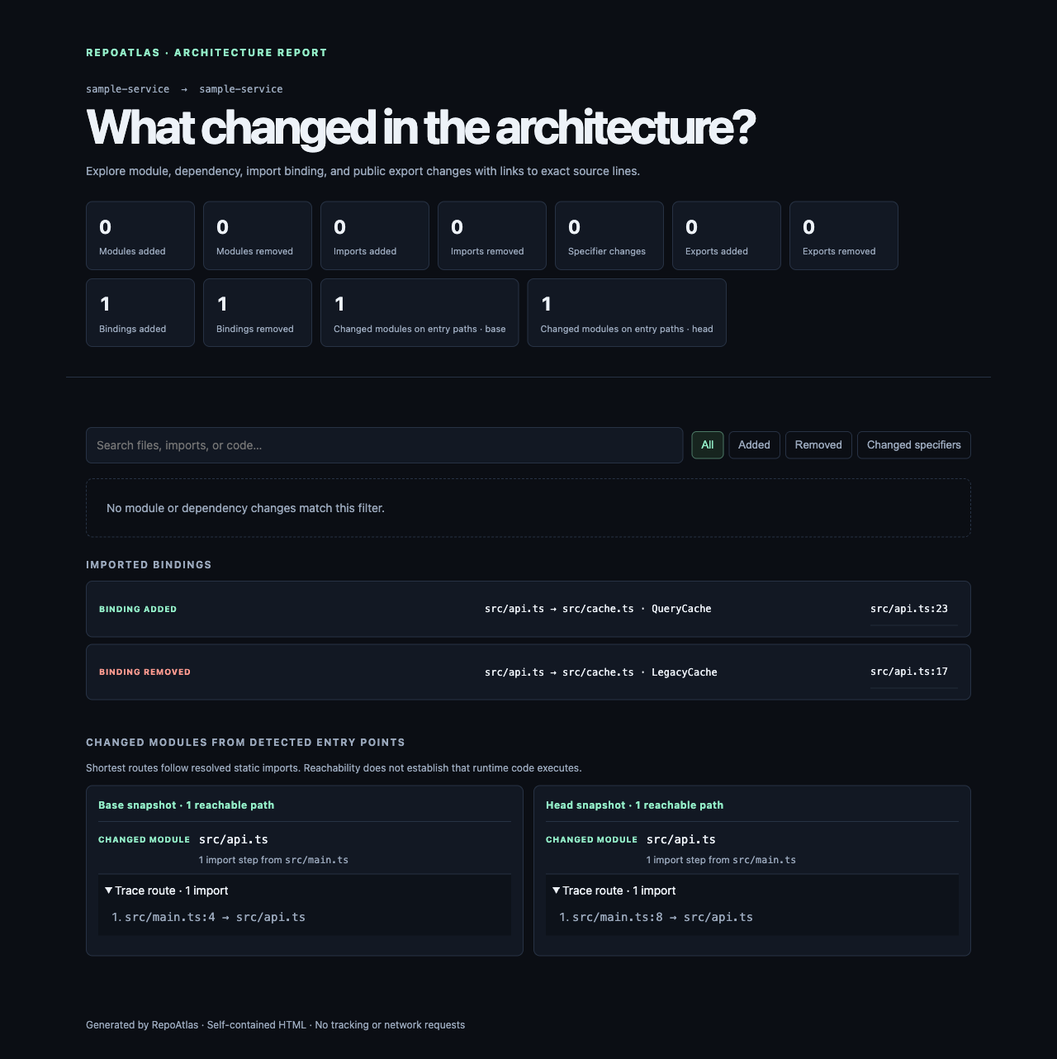
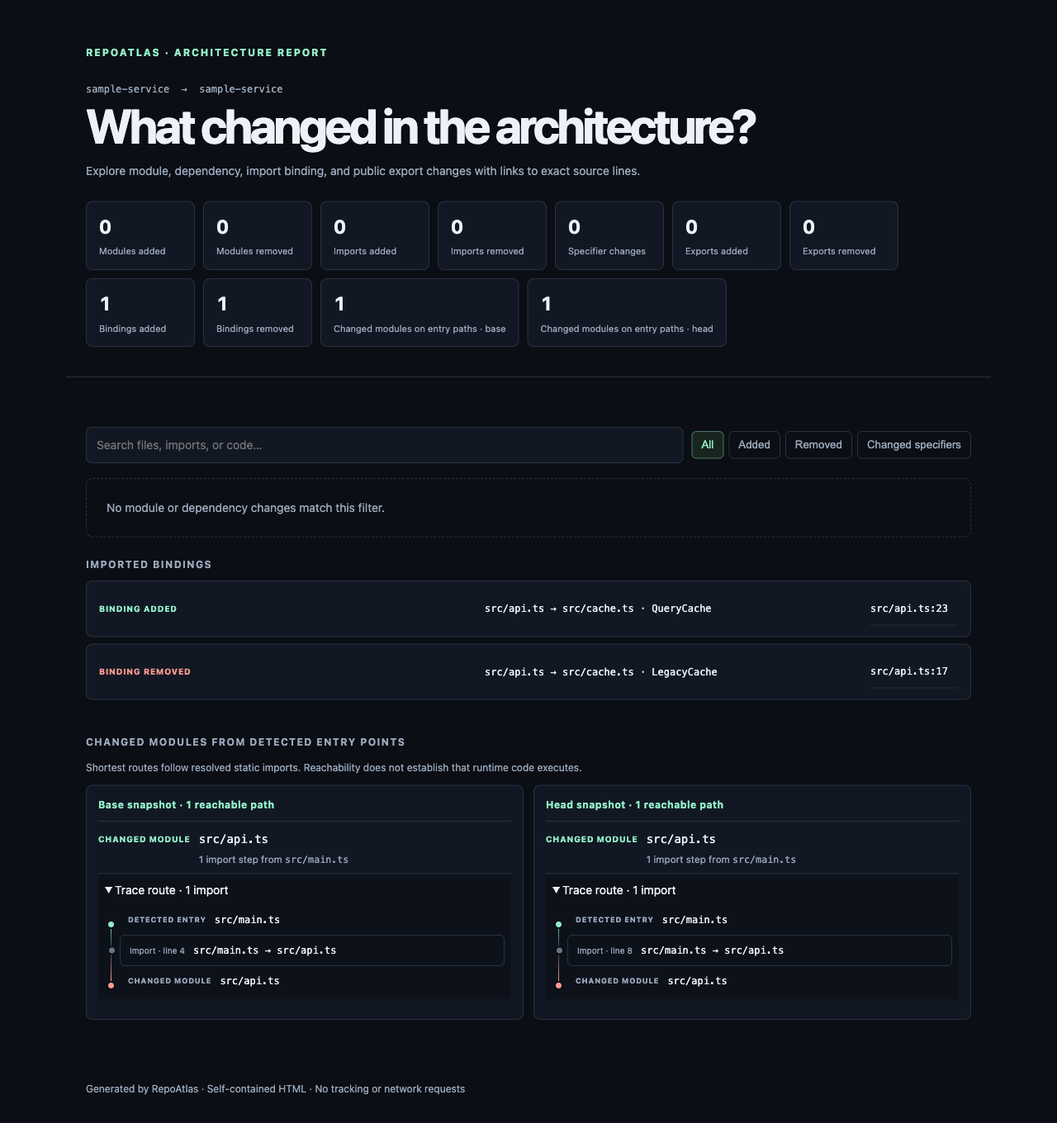
feat: render source-linked entry route rails (#117)

diff --git a/docs/examples/entry-impact-diff.html b/docs/examples/entry-impact-diff.html
@@ -1,7 +1,7 @@
 <!doctype html><html lang="en"><head><meta charset="utf-8"><meta name="viewport" content="width=device-width,initial-scale=1"><meta name="color-scheme" content="dark"><title>Architecture diff · sample-service</title><style>
 @media(prefers-reduced-motion:no-preference){.change{transition:transform .16s ease,border-color .16s ease,background .16s ease}.change:hover{transform:translateY(-1px);border-color:#42516a}}@media(prefers-reduced-motion:reduce){*,*::before,*::after{animation:none!important;scroll-behavior:auto!important;transition:none!important}}
-:root{color-scheme:dark;--bg:#0b0e14;--panel:#121823;--line:#273244;--text:#edf2f8;--muted:#9ba9bd;--mint:#92edc7;--red:#ff9b90;--amber:#e8c17b}*{box-sizing:border-box}body{margin:0;background:var(--bg);color:var(--text);font:14px/1.55 ui-sans-serif,system-ui,sans-serif}header,main{max-width:1120px;margin:auto;padding:32px 24px}header{padding-top:54px;border-bottom:1px solid var(--line)}.brand{color:var(--mint);font-size:12px;font-weight:750;letter-spacing:.16em;text-transform:uppercase}.eyebrow{margin:28px 0 8px;color:var(--muted);font:12px ui-monospace,monospace}h1{max-width:820px;margin:0;font-size:clamp(32px,6vw,58px);line-height:1.02;letter-spacing:-.055em}header p{color:var(--muted)}.stats{display:flex;gap:10px;flex-wrap:wrap;margin:26px 0 4px}.stat{padding:12px 15px;border:1px solid var(--line);border-radius:8px;background:var(--panel);min-width:132px}.stat strong{display:block;font-size:23px;font-variant-numeric:tabular-nums}.stat span{color:var(--muted);font-size:11px}.toolbar{display:flex;gap:10px;flex-wrap:wrap;align-items:center;margin:28px 0 18px}.toolbar input,.toolbar select{padding:10px 12px;border:1px solid var(--line);border-radius:7px;background:var(--panel);color:var(--text);font:inherit}.toolbar input{flex:1;min-width:220px}.filters{display:flex;gap:6px;flex-wrap:wrap}.filters button{padding:8px 11px;border:1px solid var(--line);border-radius:6px;background:transparent;color:var(--muted);cursor:pointer}.filters button[aria-pressed=true]{border-color:#4c7966;background:#17251f;color:var(--mint)}.section{margin:24px 0 42px}.section h2{font-size:12px;color:var(--muted);letter-spacing:.12em;text-transform:uppercase}.change-list{display:grid;gap:8px}.change{display:grid;grid-template-columns:minmax(180px,1fr) minmax(150px,1fr) auto;gap:14px;align-items:center;padding:13px 15px;border:1px solid var(--line);border-radius:8px;background:var(--panel)}.change[hidden]{display:none}@media(prefers-reduced-motion:no-preference){.impact-route{animation:impact-in .18s ease-out both}.impact-route:nth-child(2){animation-delay:25ms}@keyframes impact-in{from{opacity:0;transform:translateY(3px)}to{opacity:1;transform:translateY(0)}}}.impact-grid{display:grid;grid-template-columns:1fr 1fr;gap:12px}.impact-card{padding:14px;border:1px solid var(--line);border-radius:8px;background:var(--panel)}.impact-card h3{margin:0 0 10px;color:var(--mint);font-size:12px;letter-spacing:.04em}.impact-route{padding:10px 0;border-top:1px solid var(--line)}.impact-route-head{display:grid;grid-template-columns:auto 1fr;gap:4px 10px;align-items:center}.impact-route-head small{grid-column:2;color:var(--muted)}.impact-route details{margin-top:8px;padding:8px;background:#0d121a}.impact-route ol,.impact-unreachable ul{margin:8px 0 0;padding-left:24px}.impact-route li,.impact-unreachable li{padding:3px 0;color:var(--muted)}.impact-gap{color:var(--amber)!important;font-style:italic}.impact-route li a{margin-left:8px;color:var(--mint);font-size:12px}.impact-note{color:var(--muted);font-size:12px}.impact-unreachable{margin-top:10px}.impact-unreachable summary{font-size:12px}@media(max-width:700px){.impact-grid{grid-template-columns:1fr}}.change code,.source code{font:12px/1.6 ui-monospace,SFMono-Regular,monospace;overflow-wrap:anywhere}.change a{color:var(--mint);text-decoration:none}.change a:hover{text-decoration:underline}.tag{font-size:10px;font-weight:750;letter-spacing:.08em;text-transform:uppercase;color:var(--mint)}.tag.removed{color:var(--red)}.tag.changed{color:var(--amber)}.change-meta{font-size:10px;color:var(--muted);text-align:right}details{border-top:1px solid var(--line);padding:13px 15px;margin:0;background:#10151e}details summary{cursor:pointer;color:var(--text)}.source{display:grid;grid-template-columns:minmax(0,1fr) auto;gap:12px;align-items:start;padding:10px 0;border-bottom:1px solid #222b39}.source a{color:var(--mint);font-size:12px}.source pre{margin:6px 0 0;padding:10px;border-radius:5px;background:#080b10;color:#cfe8dc;white-space:pre-wrap;overflow-wrap:anywhere;font:11px/1.6 ui-monospace,monospace}.empty{padding:24px;border:1px dashed var(--line);border-radius:8px;color:var(--muted)}footer{max-width:1120px;margin:auto;padding:0 24px 32px;color:var(--muted);font-size:12px}@media(max-width:650px){header,main{padding-left:16px;padding-right:16px}.change{grid-template-columns:1fr auto;gap:5px}.change .relation{grid-column:1/-1;grid-row:2}.source{grid-template-columns:1fr}.stat{min-width:calc(50% - 5px)}}
-</style></head><body><header><div class="brand">RepoAtlas · Architecture report</div><div class="eyebrow">sample-service  &nbsp;→&nbsp; sample-service </div><h1>What changed in the architecture?</h1><p>Explore module, dependency, import binding, and public export changes with links to exact source lines.</p><div class="stats" id="stats"></div></header><main><div class="toolbar"><input id="search" type="search" aria-label="Search architecture changes" placeholder="Search files, imports, or code…"><div class="filters" role="group" aria-label="Filter changes"><button data-filter="all" aria-pressed="true">All</button><button data-filter="added">Added</button><button data-filter="removed">Removed</button><button data-filter="changed">Changed specifiers</button></div></div><div id="results" aria-live="polite"></div><section class="section" id="import-binding-changes" aria-live="polite"><h2>Imported bindings</h2><div class="change-list"><article class="change" data-binding-change data-type="added" data-search="src/api.ts → src/cache.ts · querycache ./cache"><span class="tag added">Binding added</span><code class="relation">src/api.ts → src/cache.ts · QueryCache</code><div class="source"><code>src/api.ts:23</code></div></article><article class="change" data-binding-change data-type="removed" data-search="src/api.ts → src/cache.ts · legacycache ./cache"><span class="tag removed">Binding removed</span><code class="relation">src/api.ts → src/cache.ts · LegacyCache</code><div class="source"><code>src/api.ts:17</code></div></article></div></section><section class="section" id="entry-impact"><h2>Changed modules from detected entry points</h2><p class="impact-note">Shortest routes follow resolved static imports. Reachability does not establish that runtime code executes.</p><div class="impact-grid"><article class="impact-card"><h3>Base snapshot · 1 reachable path</h3><article class="impact-route"><div class="impact-route-head"><span class="tag">Changed module</span><code>src/api.ts</code><small>1 import step from <code>src/main.ts</code></small></div><details><summary>Trace route · 1 import</summary><ol><li><code>src/main.ts:4 → src/api.ts</code></li></ol></details></article></article><article class="impact-card"><h3>Head snapshot · 1 reachable path</h3><article class="impact-route"><div class="impact-route-head"><span class="tag">Changed module</span><code>src/api.ts</code><small>1 import step from <code>src/main.ts</code></small></div><details><summary>Trace route · 1 import</summary><ol><li><code>src/main.ts:8 → src/api.ts</code></li></ol></details></article></article></div></section></main><footer>Generated by RepoAtlas · Self-contained HTML · No tracking or network requests</footer><script type="application/json" id="diff-data">{"base":{"name":"sample-service"},"head":{"name":"sample-service"},"modules":{"added":[],"removed":[]},"dependencies":{"added":[],"removed":[],"changedSpecifier":[]},"exports":{"added":[],"removed":[],"unavailableModules":[]},"importBindings":{"added":[{"sourceModule":"src/api.ts","targetModule":"src/cache.ts","name":"QueryCache","localName":"QueryCache","kind":"import","specifier":"./cache","line":23}],"removed":[{"sourceModule":"src/api.ts","targetModule":"src/cache.ts","name":"LegacyCache","localName":"LegacyCache","kind":"import","specifier":"./cache","line":17}],"unavailableSnapshots":[]},"impact":{"base":{"known":true,"entryPoints":1,"routes":[{"moduleId":"src/api.ts","entry":"src/main.ts","edges":[{"source":"src/main.ts","target":"src/api.ts","specifier":"./api","kind":"import","line":4,"code":"import { Api } from \"./api\";","resolution":"internal"}],"totalSteps":1,"omittedSteps":0}],"unreachableModules":[],"changedModules":1,"omittedModules":0},"head":{"known":true,"entryPoints":1,"routes":[{"moduleId":"src/api.ts","entry":"src/main.ts","edges":[{"source":"src/main.ts","target":"src/api.ts","specifier":"./api","kind":"import","line":8,"code":"import { Api } from \"./api\";","resolution":"internal"}],"totalSteps":1,"omittedSteps":0}],"unreachableModules":[],"changedModules":1,"omittedModules":0}}}</script><script>
+:root{color-scheme:dark;--bg:#0b0e14;--panel:#121823;--line:#273244;--text:#edf2f8;--muted:#9ba9bd;--mint:#92edc7;--red:#ff9b90;--amber:#e8c17b}*{box-sizing:border-box}body{margin:0;background:var(--bg);color:var(--text);font:14px/1.55 ui-sans-serif,system-ui,sans-serif}header,main{max-width:1120px;margin:auto;padding:32px 24px}header{padding-top:54px;border-bottom:1px solid var(--line)}.brand{color:var(--mint);font-size:12px;font-weight:750;letter-spacing:.16em;text-transform:uppercase}.eyebrow{margin:28px 0 8px;color:var(--muted);font:12px ui-monospace,monospace}h1{max-width:820px;margin:0;font-size:clamp(32px,6vw,58px);line-height:1.02;letter-spacing:-.055em}header p{color:var(--muted)}.stats{display:flex;gap:10px;flex-wrap:wrap;margin:26px 0 4px}.stat{padding:12px 15px;border:1px solid var(--line);border-radius:8px;background:var(--panel);min-width:132px}.stat strong{display:block;font-size:23px;font-variant-numeric:tabular-nums}.stat span{color:var(--muted);font-size:11px}.toolbar{display:flex;gap:10px;flex-wrap:wrap;align-items:center;margin:28px 0 18px}.toolbar input,.toolbar select{padding:10px 12px;border:1px solid var(--line);border-radius:7px;background:var(--panel);color:var(--text);font:inherit}.toolbar input{flex:1;min-width:220px}.filters{display:flex;gap:6px;flex-wrap:wrap}.filters button{padding:8px 11px;border:1px solid var(--line);border-radius:6px;background:transparent;color:var(--muted);cursor:pointer}.filters button[aria-pressed=true]{border-color:#4c7966;background:#17251f;color:var(--mint)}.section{margin:24px 0 42px}.section h2{font-size:12px;color:var(--muted);letter-spacing:.12em;text-transform:uppercase}.change-list{display:grid;gap:8px}.change{display:grid;grid-template-columns:minmax(180px,1fr) minmax(150px,1fr) auto;gap:14px;align-items:center;padding:13px 15px;border:1px solid var(--line);border-radius:8px;background:var(--panel)}.change[hidden]{display:none}@media(prefers-reduced-motion:no-preference){.impact-route{animation:impact-in .18s ease-out both}.impact-route:nth-child(2){animation-delay:25ms}.route-hop{transition:transform .14s ease,border-color .14s ease}.route-hop:hover{transform:translateX(2px);border-color:#42516a}@keyframes impact-in{from{opacity:0;transform:translateY(3px)}to{opacity:1;transform:translateY(0)}}}.impact-grid{display:grid;grid-template-columns:1fr 1fr;gap:12px}.impact-card{padding:14px;border:1px solid var(--line);border-radius:8px;background:var(--panel)}.impact-card h3{margin:0 0 10px;color:var(--mint);font-size:12px;letter-spacing:.04em}.impact-route{padding:10px 0;border-top:1px solid var(--line)}.impact-route-head{display:grid;grid-template-columns:auto 1fr;gap:4px 10px;align-items:center}.impact-route-head small{grid-column:2;color:var(--muted)}.impact-route details{margin-top:8px;padding:8px;background:#0d121a}.route-rail{list-style:none;margin:12px 0 0;padding:0 0 0 18px;position:relative}.route-rail:before{content:"";position:absolute;left:7px;top:14px;bottom:14px;width:1px;background:linear-gradient(var(--mint),var(--line),var(--red))}.route-rail li{list-style:none;position:relative;margin:0;padding:5px 0 5px 10px}.route-node{display:grid;grid-template-columns:auto 1fr;gap:2px 10px;align-items:center}.route-node:before,.route-hop:before,.route-gap:before{content:"";position:absolute;left:-16px;top:14px;width:7px;height:7px;border:2px solid var(--bg);border-radius:50%;background:#66758b}.route-node span{color:var(--muted);font-size:9px;font-weight:750;letter-spacing:.08em;text-transform:uppercase}.route-node code,.route-hop code{font:12px/1.5 ui-monospace,SFMono-Regular,monospace;overflow-wrap:anywhere}.route-entry:before{background:var(--mint)}.route-changed:before{background:var(--red)}.route-hop{display:grid;grid-template-columns:auto 1fr;gap:3px 10px;align-items:center;margin:4px 0!important;padding:9px 11px!important;border:1px solid var(--line);border-radius:6px;background:#0d121a}.route-hop:before{top:50%;transform:translateY(-50%)}.route-hop-label{color:var(--muted);font-size:10px}.route-hop a{grid-column:2;color:var(--mint);font-size:12px}.route-gap{color:var(--amber);font-size:11px;font-style:italic}.route-gap:before{background:var(--amber)}.impact-unreachable ul{margin:8px 0 0;padding-left:24px}.impact-unreachable li{padding:3px 0;color:var(--muted)}.impact-note{color:var(--muted);font-size:12px}.impact-unreachable{margin-top:10px}.impact-unreachable summary{font-size:12px}@media(max-width:700px){.impact-grid{grid-template-columns:1fr}}.change code,.source code{font:12px/1.6 ui-monospace,SFMono-Regular,monospace;overflow-wrap:anywhere}.change a{color:var(--mint);text-decoration:none}.change a:hover{text-decoration:underline}.tag{font-size:10px;font-weight:750;letter-spacing:.08em;text-transform:uppercase;color:var(--mint)}.tag.removed{color:var(--red)}.tag.changed{color:var(--amber)}.change-meta{font-size:10px;color:var(--muted);text-align:right}details{border-top:1px solid var(--line);padding:13px 15px;margin:0;background:#10151e}details summary{cursor:pointer;color:var(--text)}.source{display:grid;grid-template-columns:minmax(0,1fr) auto;gap:12px;align-items:start;padding:10px 0;border-bottom:1px solid #222b39}.source a{color:var(--mint);font-size:12px}.source pre{margin:6px 0 0;padding:10px;border-radius:5px;background:#080b10;color:#cfe8dc;white-space:pre-wrap;overflow-wrap:anywhere;font:11px/1.6 ui-monospace,monospace}.empty{padding:24px;border:1px dashed var(--line);border-radius:8px;color:var(--muted)}footer{max-width:1120px;margin:auto;padding:0 24px 32px;color:var(--muted);font-size:12px}@media(max-width:650px){header,main{padding-left:16px;padding-right:16px}.change{grid-template-columns:1fr auto;gap:5px}.change .relation{grid-column:1/-1;grid-row:2}.source{grid-template-columns:1fr}.stat{min-width:calc(50% - 5px)}}
+</style></head><body><header><div class="brand">RepoAtlas · Architecture report</div><div class="eyebrow">sample-service  &nbsp;→&nbsp; sample-service </div><h1>What changed in the architecture?</h1><p>Explore module, dependency, import binding, and public export changes with links to exact source lines.</p><div class="stats" id="stats"></div></header><main><div class="toolbar"><input id="search" type="search" aria-label="Search architecture changes" placeholder="Search files, imports, or code…"><div class="filters" role="group" aria-label="Filter changes"><button data-filter="all" aria-pressed="true">All</button><button data-filter="added">Added</button><button data-filter="removed">Removed</button><button data-filter="changed">Changed specifiers</button></div></div><div id="results" aria-live="polite"></div><section class="section" id="import-binding-changes" aria-live="polite"><h2>Imported bindings</h2><div class="change-list"><article class="change" data-binding-change data-type="added" data-search="src/api.ts → src/cache.ts · querycache ./cache"><span class="tag added">Binding added</span><code class="relation">src/api.ts → src/cache.ts · QueryCache</code><div class="source"><code>src/api.ts:23</code></div></article><article class="change" data-binding-change data-type="removed" data-search="src/api.ts → src/cache.ts · legacycache ./cache"><span class="tag removed">Binding removed</span><code class="relation">src/api.ts → src/cache.ts · LegacyCache</code><div class="source"><code>src/api.ts:17</code></div></article></div></section><section class="section" id="entry-impact"><h2>Changed modules from detected entry points</h2><p class="impact-note">Shortest routes follow resolved static imports. Reachability does not establish that runtime code executes.</p><div class="impact-grid"><article class="impact-card"><h3>Base snapshot · 1 reachable path</h3><article class="impact-route"><div class="impact-route-head"><span class="tag">Changed module</span><code>src/api.ts</code><small>1 import step from <code>src/main.ts</code></small></div><details><summary>Trace route · 1 import</summary><ol class="route-rail" aria-label="Shortest import route from src/main.ts to src/api.ts"><li class="route-node route-entry"><span>Detected entry</span><code>src/main.ts</code></li><li class="route-hop"><span class="route-hop-label">Import · line 4</span><code>src/main.ts → src/api.ts</code></li><li class="route-node route-changed"><span>Changed module</span><code>src/api.ts</code></li></ol></details></article></article><article class="impact-card"><h3>Head snapshot · 1 reachable path</h3><article class="impact-route"><div class="impact-route-head"><span class="tag">Changed module</span><code>src/api.ts</code><small>1 import step from <code>src/main.ts</code></small></div><details><summary>Trace route · 1 import</summary><ol class="route-rail" aria-label="Shortest import route from src/main.ts to src/api.ts"><li class="route-node route-entry"><span>Detected entry</span><code>src/main.ts</code></li><li class="route-hop"><span class="route-hop-label">Import · line 8</span><code>src/main.ts → src/api.ts</code></li><li class="route-node route-changed"><span>Changed module</span><code>src/api.ts</code></li></ol></details></article></article></div></section></main><footer>Generated by RepoAtlas · Self-contained HTML · No tracking or network requests</footer><script type="application/json" id="diff-data">{"base":{"name":"sample-service"},"head":{"name":"sample-service"},"modules":{"added":[],"removed":[]},"dependencies":{"added":[],"removed":[],"changedSpecifier":[]},"exports":{"added":[],"removed":[],"unavailableModules":[]},"importBindings":{"added":[{"sourceModule":"src/api.ts","targetModule":"src/cache.ts","name":"QueryCache","localName":"QueryCache","kind":"import","specifier":"./cache","line":23}],"removed":[{"sourceModule":"src/api.ts","targetModule":"src/cache.ts","name":"LegacyCache","localName":"LegacyCache","kind":"import","specifier":"./cache","line":17}],"unavailableSnapshots":[]},"impact":{"base":{"known":true,"entryPoints":1,"routes":[{"moduleId":"src/api.ts","entry":"src/main.ts","edges":[{"source":"src/main.ts","target":"src/api.ts","specifier":"./api","kind":"import","line":4,"code":"import { Api } from \"./api\";","resolution":"internal"}],"totalSteps":1,"omittedSteps":0}],"unreachableModules":[],"changedModules":1,"omittedModules":0},"head":{"known":true,"entryPoints":1,"routes":[{"moduleId":"src/api.ts","entry":"src/main.ts","edges":[{"source":"src/main.ts","target":"src/api.ts","specifier":"./api","kind":"import","line":8,"code":"import { Api } from \"./api\";","resolution":"internal"}],"totalSteps":1,"omittedSteps":0}],"unreachableModules":[],"changedModules":1,"omittedModules":0}}}</script><script>
 const data=JSON.parse(document.getElementById('diff-data').textContent);const stats=document.getElementById('stats'),results=document.getElementById('results'),search=document.getElementById('search');let filter='all';const groups=[['Modules added',data.modules.added.length],['Modules removed',data.modules.removed.length],['Imports added',data.dependencies.added.length],['Imports removed',data.dependencies.removed.length],['Specifier changes',data.dependencies.changedSpecifier.length]];for(const [label,count] of groups){const card=document.createElement('div');card.className='stat';const n=document.createElement('strong');n.textContent=count;const caption=document.createElement('span');caption.textContent=label;card.append(n,caption);stats.append(card)}function node(tag,text,cls){const item=document.createElement(tag);if(text!==undefined)item.textContent=text;if(cls)item.className=cls;return item}function source(edge,label){const item=node('div',undefined,'source'),body=node('div'),site=node('code',edge.source+':'+edge.line),code=node('pre',edge.code);body.append(site,code);item.append(body);if(edge.url&&edge.url.startsWith("https://github.com/")){const link=node('a','View source');link.href=edge.url;link.target='_blank';link.rel='noopener noreferrer';item.append(link)}else item.append(node('span',''));return item}function change(type,title,relation,edges){const row=node('article',undefined,'change');row.dataset.type=type;row.dataset.search=(title+' '+relation+' '+edges.map(edge=>edge.source+' '+edge.target+' '+edge.specifier+' '+edge.code).join(' ')).toLowerCase();row.append(node('span',title,'tag '+type),node('code',relation,'relation'));if(edges.length){const details=document.createElement('details'),summary=node('summary',edges.length+' source '+(edges.length===1?'site':'sites'));details.append(summary);for(const edge of edges)details.append(source(edge));row.append(details)}else row.append(node('span','File change','change-meta'));return row}function render(){results.replaceChildren();const sections=[];const add=(title,items)=>{if(items.length)sections.push([title,items])};const moduleItems=[];for(const id of data.modules.added)moduleItems.push(change('added','Module added',id,[]));for(const id of data.modules.removed)moduleItems.push(change('removed','Module removed',id,[]));add('Modules',moduleItems);const depItems=[];for(const edge of data.dependencies.added)depItems.push(change('added','Import added',edge.source+' → '+edge.target+' · '+edge.specifier,[edge]));for(const edge of data.dependencies.removed)depItems.push(change('removed','Import removed',edge.source+' → '+edge.target+' · '+edge.specifier,[edge]));for(const pair of data.dependencies.changedSpecifier)depItems.push(change('changed','Specifier changed',pair.before.source+' → '+pair.after.target+' · '+pair.before.specifier+' → '+pair.after.specifier,[pair.before,pair.after]));add('Dependencies',depItems);let visible=0;for(const [title,items] of sections){const matching=items.filter(item=>(filter==='all'||item.dataset.type===filter)&&item.dataset.search.includes(search.value.toLowerCase()));if(!matching.length)continue;visible+=matching.length;const section=node('section',undefined,'section');section.append(node('h2',title));const list=node('div',undefined,'change-list');list.append(...matching);section.append(list);results.append(section)}if(!visible)results.append(node('div','No module or dependency changes match this filter.','empty'))}for(const button of document.querySelectorAll('[data-filter]'))button.addEventListener('click',()=>{filter=button.dataset.filter;for(const item of document.querySelectorAll('[data-filter]'))item.setAttribute('aria-pressed',String(item===button));render()});search.addEventListener('input',render);render();
 </script><script>
 const comparisonData=JSON.parse(document.getElementById('diff-data').textContent);

diff --git a/src/compare-render.ts b/src/compare-render.ts
@@ -34,9 +34,10 @@ function renderImpactRoutes(comparison:AtlasComparison):string {
     const data=comparison.impact[side],name=side==='base'?'Base':'Head';
     if(!data.known)return `<article class="impact-card"><h3>${name} snapshot</h3><p>Unknown: no entry points were detected.</p></article>`;
     const routes=data.routes.map(route=>{
-      const evidence=route.edges.map(edge=>`<li><code>${escapeHtml(`${edge.source}:${edge.line} → ${edge.target}`)}</code>${isGitHubSource(edge.url)?` <a href="${escapeHtml(edge.url)}" target="_blank" rel="noopener noreferrer">View source</a>`:''}</li>`);
-      if(route.omittedSteps)evidence.splice(evidence.length/2,0,`<li class="impact-gap">${route.omittedSteps} intermediate import steps omitted to keep this route compact</li>`);
-      return `<article class="impact-route"><div class="impact-route-head"><span class="tag">Changed module</span><code>${escapeHtml(route.moduleId)}</code><small>${route.totalSteps} import step${route.totalSteps===1?'':'s'} from <code>${escapeHtml(route.entry)}</code></small></div>${route.edges.length?`<details><summary>Trace route · ${route.totalSteps} import${route.totalSteps===1?'':'s'}${route.omittedSteps?` · ${route.omittedSteps} intermediate steps omitted`:''}</summary><ol>${evidence.join('')}</ol></details>`:'<p>This changed module is itself a detected entry point.</p>'}</article>`;
+      const hops=route.edges.map(edge=>`<li class="route-hop"><span class="route-hop-label">Import · line ${edge.line}</span><code>${escapeHtml(`${edge.source} → ${edge.target}`)}</code>${isGitHubSource(edge.url)?`<a href="${escapeHtml(edge.url)}" target="_blank" rel="noopener noreferrer">View source</a>`:''}</li>`);
+      if(route.omittedSteps)hops.splice(hops.length/2,0,`<li class="route-gap">${route.omittedSteps} intermediate import steps omitted</li>`);
+      const rail=route.edges.length?`<ol class="route-rail" aria-label="Shortest import route from ${escapeHtml(route.entry)} to ${escapeHtml(route.moduleId)}"><li class="route-node route-entry"><span>Detected entry</span><code>${escapeHtml(route.entry)}</code></li>${hops.join('')}<li class="route-node route-changed"><span>Changed module</span><code>${escapeHtml(route.moduleId)}</code></li></ol>`:'';
+      return `<article class="impact-route"><div class="impact-route-head"><span class="tag">Changed module</span><code>${escapeHtml(route.moduleId)}</code><small>${route.totalSteps} import step${route.totalSteps===1?'':'s'} from <code>${escapeHtml(route.entry)}</code></small></div>${route.edges.length?`<details><summary>Trace route · ${route.totalSteps} import${route.totalSteps===1?'':'s'}${route.omittedSteps?` · ${route.omittedSteps} intermediate steps omitted`:''}</summary>${rail}</details>`:'<p>This changed module is itself a detected entry point.</p>'}</article>`;
     });
     const unreachable=data.unreachableModules.length?`<details class="impact-unreachable"><summary>${data.unreachableModules.length} changed module${data.unreachableModules.length===1?'':'s'} outside detected entry paths</summary><ul>${data.unreachableModules.map(id=>`<li><code>${escapeHtml(id)}</code></li>`).join('')}</ul></details>`:'';
     const omitted=data.omittedModules?`<p class="impact-note">${data.omittedModules} additional changed modules omitted to keep this report compact.</p>`:'';
@@ -86,7 +87,7 @@ export function renderComparisonHtml(comparison:AtlasComparison):string {
   const data=escapeJson(comparison);
   return `<!doctype html><html lang="en"><head><meta charset="utf-8"><meta name="viewport" content="width=device-width,initial-scale=1"><meta name="color-scheme" content="dark"><title>Architecture diff · ${escapeHtml(comparison.head.name)}</title><style>
 @media(prefers-reduced-motion:no-preference){.change{transition:transform .16s ease,border-color .16s ease,background .16s ease}.change:hover{transform:translateY(-1px);border-color:#42516a}}@media(prefers-reduced-motion:reduce){*,*::before,*::after{animation:none!important;scroll-behavior:auto!important;transition:none!important}}
-:root{color-scheme:dark;--bg:#0b0e14;--panel:#121823;--line:#273244;--text:#edf2f8;--muted:#9ba9bd;--mint:#92edc7;--red:#ff9b90;--amber:#e8c17b}*{box-sizing:border-box}body{margin:0;background:var(--bg);color:var(--text);font:14px/1.55 ui-sans-serif,system-ui,sans-serif}header,main{max-width:1120px;margin:auto;padding:32px 24px}header{padding-top:54px;border-bottom:1px solid var(--line)}.brand{color:var(--mint);font-size:12px;font-weight:750;letter-spacing:.16em;text-transform:uppercase}.eyebrow{margin:28px 0 8px;color:var(--muted);font:12px ui-monospace,monospace}h1{max-width:820px;margin:0;font-size:clamp(32px,6vw,58px);line-height:1.02;letter-spacing:-.055em}header p{color:var(--muted)}.stats{display:flex;gap:10px;flex-wrap:wrap;margin:26px 0 4px}.stat{padding:12px 15px;border:1px solid var(--line);border-radius:8px;background:var(--panel);min-width:132px}.stat strong{display:block;font-size:23px;font-variant-numeric:tabular-nums}.stat span{color:var(--muted);font-size:11px}.toolbar{display:flex;gap:10px;flex-wrap:wrap;align-items:center;margin:28px 0 18px}.toolbar input,.toolbar select{padding:10px 12px;border:1px solid var(--line);border-radius:7px;background:var(--panel);color:var(--text);font:inherit}.toolbar input{flex:1;min-width:220px}.filters{display:flex;gap:6px;flex-wrap:wrap}.filters button{padding:8px 11px;border:1px solid var(--line);border-radius:6px;background:transparent;color:var(--muted);cursor:pointer}.filters button[aria-pressed=true]{border-color:#4c7966;background:#17251f;color:var(--mint)}.section{margin:24px 0 42px}.section h2{font-size:12px;color:var(--muted);letter-spacing:.12em;text-transform:uppercase}.change-list{display:grid;gap:8px}.change{display:grid;grid-template-columns:minmax(180px,1fr) minmax(150px,1fr) auto;gap:14px;align-items:center;padding:13px 15px;border:1px solid var(--line);border-radius:8px;background:var(--panel)}.change[hidden]{display:none}@media(prefers-reduced-motion:no-preference){.impact-route{animation:impact-in .18s ease-out both}.impact-route:nth-child(2){animation-delay:25ms}@keyframes impact-in{from{opacity:0;transform:translateY(3px)}to{opacity:1;transform:translateY(0)}}}.impact-grid{display:grid;grid-template-columns:1fr 1fr;gap:12px}.impact-card{padding:14px;border:1px solid var(--line);border-radius:8px;background:var(--panel)}.impact-card h3{margin:0 0 10px;color:var(--mint);font-size:12px;letter-spacing:.04em}.impact-route{padding:10px 0;border-top:1px solid var(--line)}.impact-route-head{display:grid;grid-template-columns:auto 1fr;gap:4px 10px;align-items:center}.impact-route-head small{grid-column:2;color:var(--muted)}.impact-route details{margin-top:8px;padding:8px;background:#0d121a}.impact-route ol,.impact-unreachable ul{margin:8px 0 0;padding-left:24px}.impact-route li,.impact-unreachable li{padding:3px 0;color:var(--muted)}.impact-gap{color:var(--amber)!important;font-style:italic}.impact-route li a{margin-left:8px;color:var(--mint);font-size:12px}.impact-note{color:var(--muted);font-size:12px}.impact-unreachable{margin-top:10px}.impact-unreachable summary{font-size:12px}@media(max-width:700px){.impact-grid{grid-template-columns:1fr}}.change code,.source code{font:12px/1.6 ui-monospace,SFMono-Regular,monospace;overflow-wrap:anywhere}.change a{color:var(--mint);text-decoration:none}.change a:hover{text-decoration:underline}.tag{font-size:10px;font-weight:750;letter-spacing:.08em;text-transform:uppercase;color:var(--mint)}.tag.removed{color:var(--red)}.tag.changed{color:var(--amber)}.change-meta{font-size:10px;color:var(--muted);text-align:right}details{border-top:1px solid var(--line);padding:13px 15px;margin:0;background:#10151e}details summary{cursor:pointer;color:var(--text)}.source{display:grid;grid-template-columns:minmax(0,1fr) auto;gap:12px;align-items:start;padding:10px 0;border-bottom:1px solid #222b39}.source a{color:var(--mint);font-size:12px}.source pre{margin:6px 0 0;padding:10px;border-radius:5px;background:#080b10;color:#cfe8dc;white-space:pre-wrap;overflow-wrap:anywhere;font:11px/1.6 ui-monospace,monospace}.empty{padding:24px;border:1px dashed var(--line);border-radius:8px;color:var(--muted)}footer{max-width:1120px;margin:auto;padding:0 24px 32px;color:var(--muted);font-size:12px}@media(max-width:650px){header,main{padding-left:16px;padding-right:16px}.change{grid-template-columns:1fr auto;gap:5px}.change .relation{grid-column:1/-1;grid-row:2}.source{grid-template-columns:1fr}.stat{min-width:calc(50% - 5px)}}
+:root{color-scheme:dark;--bg:#0b0e14;--panel:#121823;--line:#273244;--text:#edf2f8;--muted:#9ba9bd;--mint:#92edc7;--red:#ff9b90;--amber:#e8c17b}*{box-sizing:border-box}body{margin:0;background:var(--bg);color:var(--text);font:14px/1.55 ui-sans-serif,system-ui,sans-serif}header,main{max-width:1120px;margin:auto;padding:32px 24px}header{padding-top:54px;border-bottom:1px solid var(--line)}.brand{color:var(--mint);font-size:12px;font-weight:750;letter-spacing:.16em;text-transform:uppercase}.eyebrow{margin:28px 0 8px;color:var(--muted);font:12px ui-monospace,monospace}h1{max-width:820px;margin:0;font-size:clamp(32px,6vw,58px);line-height:1.02;letter-spacing:-.055em}header p{color:var(--muted)}.stats{display:flex;gap:10px;flex-wrap:wrap;margin:26px 0 4px}.stat{padding:12px 15px;border:1px solid var(--line);border-radius:8px;background:var(--panel);min-width:132px}.stat strong{display:block;font-size:23px;font-variant-numeric:tabular-nums}.stat span{color:var(--muted);font-size:11px}.toolbar{display:flex;gap:10px;flex-wrap:wrap;align-items:center;margin:28px 0 18px}.toolbar input,.toolbar select{padding:10px 12px;border:1px solid var(--line);border-radius:7px;background:var(--panel);color:var(--text);font:inherit}.toolbar input{flex:1;min-width:220px}.filters{display:flex;gap:6px;flex-wrap:wrap}.filters button{padding:8px 11px;border:1px solid var(--line);border-radius:6px;background:transparent;color:var(--muted);cursor:pointer}.filters button[aria-pressed=true]{border-color:#4c7966;background:#17251f;color:var(--mint)}.section{margin:24px 0 42px}.section h2{font-size:12px;color:var(--muted);letter-spacing:.12em;text-transform:uppercase}.change-list{display:grid;gap:8px}.change{display:grid;grid-template-columns:minmax(180px,1fr) minmax(150px,1fr) auto;gap:14px;align-items:center;padding:13px 15px;border:1px solid var(--line);border-radius:8px;background:var(--panel)}.change[hidden]{display:none}@media(prefers-reduced-motion:no-preference){.impact-route{animation:impact-in .18s ease-out both}.impact-route:nth-child(2){animation-delay:25ms}.route-hop{transition:transform .14s ease,border-color .14s ease}.route-hop:hover{transform:translateX(2px);border-color:#42516a}@keyframes impact-in{from{opacity:0;transform:translateY(3px)}to{opacity:1;transform:translateY(0)}}}.impact-grid{display:grid;grid-template-columns:1fr 1fr;gap:12px}.impact-card{padding:14px;border:1px solid var(--line);border-radius:8px;background:var(--panel)}.impact-card h3{margin:0 0 10px;color:var(--mint);font-size:12px;letter-spacing:.04em}.impact-route{padding:10px 0;border-top:1px solid var(--line)}.impact-route-head{display:grid;grid-template-columns:auto 1fr;gap:4px 10px;align-items:center}.impact-route-head small{grid-column:2;color:var(--muted)}.impact-route details{margin-top:8px;padding:8px;background:#0d121a}.route-rail{list-style:none;margin:12px 0 0;padding:0 0 0 18px;position:relative}.route-rail:before{content:"";position:absolute;left:7px;top:14px;bottom:14px;width:1px;background:linear-gradient(var(--mint),var(--line),var(--red))}.route-rail li{list-style:none;position:relative;margin:0;padding:5px 0 5px 10px}.route-node{display:grid;grid-template-columns:auto 1fr;gap:2px 10px;align-items:center}.route-node:before,.route-hop:before,.route-gap:before{content:"";position:absolute;left:-16px;top:14px;width:7px;height:7px;border:2px solid var(--bg);border-radius:50%;background:#66758b}.route-node span{color:var(--muted);font-size:9px;font-weight:750;letter-spacing:.08em;text-transform:uppercase}.route-node code,.route-hop code{font:12px/1.5 ui-monospace,SFMono-Regular,monospace;overflow-wrap:anywhere}.route-entry:before{background:var(--mint)}.route-changed:before{background:var(--red)}.route-hop{display:grid;grid-template-columns:auto 1fr;gap:3px 10px;align-items:center;margin:4px 0!important;padding:9px 11px!important;border:1px solid var(--line);border-radius:6px;background:#0d121a}.route-hop:before{top:50%;transform:translateY(-50%)}.route-hop-label{color:var(--muted);font-size:10px}.route-hop a{grid-column:2;color:var(--mint);font-size:12px}.route-gap{color:var(--amber);font-size:11px;font-style:italic}.route-gap:before{background:var(--amber)}.impact-unreachable ul{margin:8px 0 0;padding-left:24px}.impact-unreachable li{padding:3px 0;color:var(--muted)}.impact-note{color:var(--muted);font-size:12px}.impact-unreachable{margin-top:10px}.impact-unreachable summary{font-size:12px}@media(max-width:700px){.impact-grid{grid-template-columns:1fr}}.change code,.source code{font:12px/1.6 ui-monospace,SFMono-Regular,monospace;overflow-wrap:anywhere}.change a{color:var(--mint);text-decoration:none}.change a:hover{text-decoration:underline}.tag{font-size:10px;font-weight:750;letter-spacing:.08em;text-transform:uppercase;color:var(--mint)}.tag.removed{color:var(--red)}.tag.changed{color:var(--amber)}.change-meta{font-size:10px;color:var(--muted);text-align:right}details{border-top:1px solid var(--line);padding:13px 15px;margin:0;background:#10151e}details summary{cursor:pointer;color:var(--text)}.source{display:grid;grid-template-columns:minmax(0,1fr) auto;gap:12px;align-items:start;padding:10px 0;border-bottom:1px solid #222b39}.source a{color:var(--mint);font-size:12px}.source pre{margin:6px 0 0;padding:10px;border-radius:5px;background:#080b10;color:#cfe8dc;white-space:pre-wrap;overflow-wrap:anywhere;font:11px/1.6 ui-monospace,monospace}.empty{padding:24px;border:1px dashed var(--line);border-radius:8px;color:var(--muted)}footer{max-width:1120px;margin:auto;padding:0 24px 32px;color:var(--muted);font-size:12px}@media(max-width:650px){header,main{padding-left:16px;padding-right:16px}.change{grid-template-columns:1fr auto;gap:5px}.change .relation{grid-column:1/-1;grid-row:2}.source{grid-template-columns:1fr}.stat{min-width:calc(50% - 5px)}}
 </style></head><body><header><div class="brand">RepoAtlas · Architecture report</div><div class="eyebrow">${escapeHtml(comparison.base.name)} ${comparison.base.commit?`· ${escapeHtml(comparison.base.commit.slice(0,10))}`:''} &nbsp;→&nbsp; ${escapeHtml(comparison.head.name)} ${comparison.head.commit?`· ${escapeHtml(comparison.head.commit.slice(0,10))}`:''}</div><h1>What changed in the architecture?</h1><p>Explore module, dependency, import binding, and public export changes with links to exact source lines.</p><div class="stats" id="stats"></div></header><main><div class="toolbar"><input id="search" type="search" aria-label="Search architecture changes" placeholder="Search files, imports, or code…"><div class="filters" role="group" aria-label="Filter changes"><button data-filter="all" aria-pressed="true">All</button><button data-filter="added">Added</button><button data-filter="removed">Removed</button><button data-filter="changed">Changed specifiers</button></div></div><div id="results" aria-live="polite"></div>${renderExportChanges(comparison)}${renderImportBindingChanges(comparison)}${renderImpactRoutes(comparison)}</main><footer>Generated by RepoAtlas · Self-contained HTML · No tracking or network requests</footer><script type="application/json" id="diff-data">${data}</script><script>
 const data=JSON.parse(document.getElementById('diff-data').textContent);const stats=document.getElementById('stats'),results=document.getElementById('results'),search=document.getElementById('search');let filter='all';const groups=[['Modules added',data.modules.added.length],['Modules removed',data.modules.removed.length],['Imports added',data.dependencies.added.length],['Imports removed',data.dependencies.removed.length],['Specifier changes',data.dependencies.changedSpecifier.length]];for(const [label,count] of groups){const card=document.createElement('div');card.className='stat';const n=document.createElement('strong');n.textContent=count;const caption=document.createElement('span');caption.textContent=label;card.append(n,caption);stats.append(card)}function node(tag,text,cls){const item=document.createElement(tag);if(text!==undefined)item.textContent=text;if(cls)item.className=cls;return item}function source(edge,label){const item=node('div',undefined,'source'),body=node('div'),site=node('code',edge.source+':'+edge.line),code=node('pre',edge.code);body.append(site,code);item.append(body);if(edge.url&&edge.url.startsWith("https://github.com/")){const link=node('a','View source');link.href=edge.url;link.target='_blank';link.rel='noopener noreferrer';item.append(link)}else item.append(node('span',''));return item}function change(type,title,relation,edges){const row=node('article',undefined,'change');row.dataset.type=type;row.dataset.search=(title+' '+relation+' '+edges.map(edge=>edge.source+' '+edge.target+' '+edge.specifier+' '+edge.code).join(' ')).toLowerCase();row.append(node('span',title,'tag '+type),node('code',relation,'relation'));if(edges.length){const details=document.createElement('details'),summary=node('summary',edges.length+' source '+(edges.length===1?'site':'sites'));details.append(summary);for(const edge of edges)details.append(source(edge));row.append(details)}else row.append(node('span','File change','change-meta'));return row}function render(){results.replaceChildren();const sections=[];const add=(title,items)=>{if(items.length)sections.push([title,items])};const moduleItems=[];for(const id of data.modules.added)moduleItems.push(change('added','Module added',id,[]));for(const id of data.modules.removed)moduleItems.push(change('removed','Module removed',id,[]));add('Modules',moduleItems);const depItems=[];for(const edge of data.dependencies.added)depItems.push(change('added','Import added',edge.source+' → '+edge.target+' · '+edge.specifier,[edge]));for(const edge of data.dependencies.removed)depItems.push(change('removed','Import removed',edge.source+' → '+edge.target+' · '+edge.specifier,[edge]));for(const pair of data.dependencies.changedSpecifier)depItems.push(change('changed','Specifier changed',pair.before.source+' → '+pair.after.target+' · '+pair.before.specifier+' → '+pair.after.specifier,[pair.before,pair.after]));add('Dependencies',depItems);let visible=0;for(const [title,items] of sections){const matching=items.filter(item=>(filter==='all'||item.dataset.type===filter)&&item.dataset.search.includes(search.value.toLowerCase()));if(!matching.length)continue;visible+=matching.length;const section=node('section',undefined,'section');section.append(node('h2',title));const list=node('div',undefined,'change-list');list.append(...matching);section.append(list);results.append(section)}if(!visible)results.append(node('div','No module or dependency changes match this filter.','empty'))}for(const button of document.querySelectorAll('[data-filter]'))button.addEventListener('click',()=>{filter=button.dataset.filter;for(const item of document.querySelectorAll('[data-filter]'))item.setAttribute('aria-pressed',String(item===button));render()});search.addEventListener('input',render);render();
 </script>${exportDiffScript}</body></html>`;

diff --git a/docs/command-builder.js b/docs/command-builder.js
@@ -23,7 +23,7 @@ export function parseRepository(value) {
 
 export function createCommand(value) {
   const { owner, name } = parseRepository(value);
-  return `npx --yes --package=github:maximilianfeix/repoatlas#v2.20.0 -- repoatlas-cli 'https://github.com/${owner}/${name}' -o '${name}-architecture.html'`;
+  return `npx --yes --package=github:maximilianfeix/repoatlas#v2.21.0 -- repoatlas-cli 'https://github.com/${owner}/${name}' -o '${name}-architecture.html'`;
 }
 
 if (typeof document !== 'undefined') {

diff --git a/README.md b/README.md
@@ -69,14 +69,14 @@ Want to explore before installing? [Paste a public TypeScript repository or choo
 For a versioned command-line run, install nothing globally. The CLI requires **Node.js 22 or later** and **Git**. Point it at a public GitHub repository:
 
 ```sh
-npx --yes --package=github:maximilianfeix/repoatlas#v2.20.0 -- \
+npx --yes --package=github:maximilianfeix/repoatlas#v2.21.0 -- \
   repoatlas-cli https://github.com/pmndrs/zustand --out zustand-map.html
 ```
 
 Open `zustand-map.html` in your browser. Search by module path or public export, then select a result to inspect its exact source evidence. RepoAtlas also analyzes a local checkout:
 
 ```sh
-npx --yes --package=github:maximilianfeix/repoatlas#v2.20.0 -- \
+npx --yes --package=github:maximilianfeix/repoatlas#v2.21.0 -- \
   repoatlas-cli ./my-project --out architecture.html
 ```
 
@@ -110,7 +110,7 @@ jobs:
     runs-on: ubuntu-latest
     steps:
       - uses: actions/checkout@3d3c42e5aac5ba805825da76410c181273ba90b1 # v7.0.1
-      - uses: maximilianfeix/repoatlas@v2.20.0
+      - uses: maximilianfeix/repoatlas@v2.21.0
         with:
           output: repoatlas-map.html
 ```
@@ -127,7 +127,7 @@ jobs:
     runs-on: ubuntu-latest
     steps:
       - uses: actions/checkout@3d3c42e5aac5ba805825da76410c181273ba90b1 # v7.0.1
-      - uses: maximilianfeix/repoatlas@v2.20.0
+      - uses: maximilianfeix/repoatlas@v2.21.0
         with:
           compare-to: ${{ github.event.pull_request.base.sha }}
           output: architecture-diff.html
@@ -149,7 +149,7 @@ Add this server entry to an MCP client configuration and replace the project pat
       "command": "npx",
       "args": [
         "--yes",
-        "--package=github:maximilianfeix/repoatlas#v2.20.0",
+        "--package=github:maximilianfeix/repoatlas#v2.21.0",
         "repoatlas-cli",
         "mcp",
         "/absolute/path/to/project"

diff --git a/CHANGELOG.md b/CHANGELOG.md
@@ -1,5 +1,16 @@
 # Changelog
 
+## [2.21.0] - 2026-09-28
+
+### Improved
+
+- Draw the detected-entry path as a semantic route rail with distinct entry/change nodes and one exact source link per import hop.
+- Keep long-path omissions visible in sequence, preserve native disclosure and ordered-list navigation, and animate only when reduced motion is not requested.
+
+### Quality
+
+- Verify route order, base/head commit links, omitted-hop labels, responsive layout, and reduced-motion styling.
+
 ## [2.20.0] - 2026-09-28
 
 ### Added

diff --git a/skills/repoatlas/SKILL.md b/skills/repoatlas/SKILL.md
@@ -4,7 +4,7 @@ description: Map or explain an unfamiliar TypeScript repository with RepoAtlas. 
 license: MIT
 metadata:
   author: maximilianfeix
-  version: "2.20.0"
+  version: "2.21.0"
 ---
 
 # RepoAtlas
